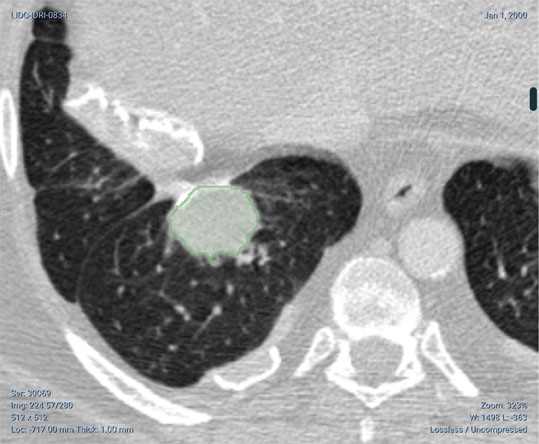
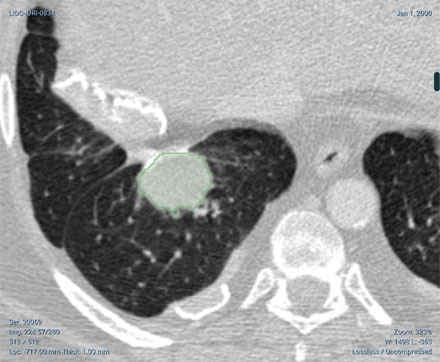
-> Fix image size discrepancies

diff --git a/static/css/style.css b/static/css/style.css
@@ -908,7 +908,7 @@ nav, .site-header {
     padding: 0 !important; }
   .navbar-item__text {
     display: inline-block;
-    font-size: 16px;
+    font-size: 14px;
     vertical-align: middle; }
     .navbar-item__text:hover {
       text-decoration: none; }
@@ -2971,7 +2971,8 @@ html {
 
 #landing .modality-panel img.example {
   width: 440px;
-  height: 363px;
+  max-width: 100%;
+  height: auto;
   border: 2px solid black;
 }
 .site-footer {
